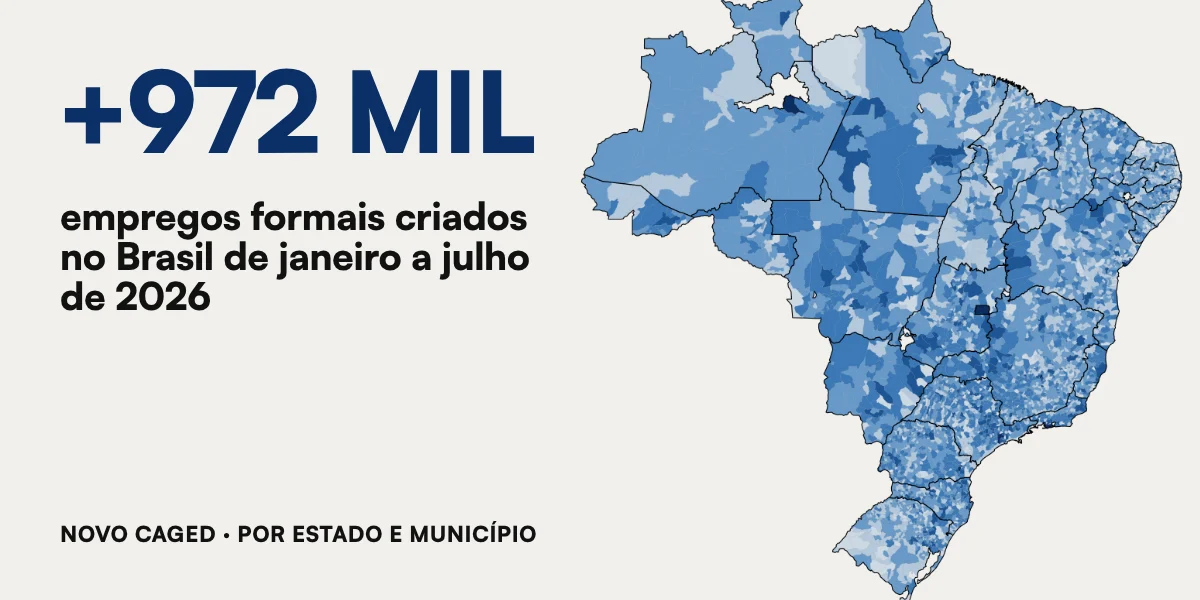
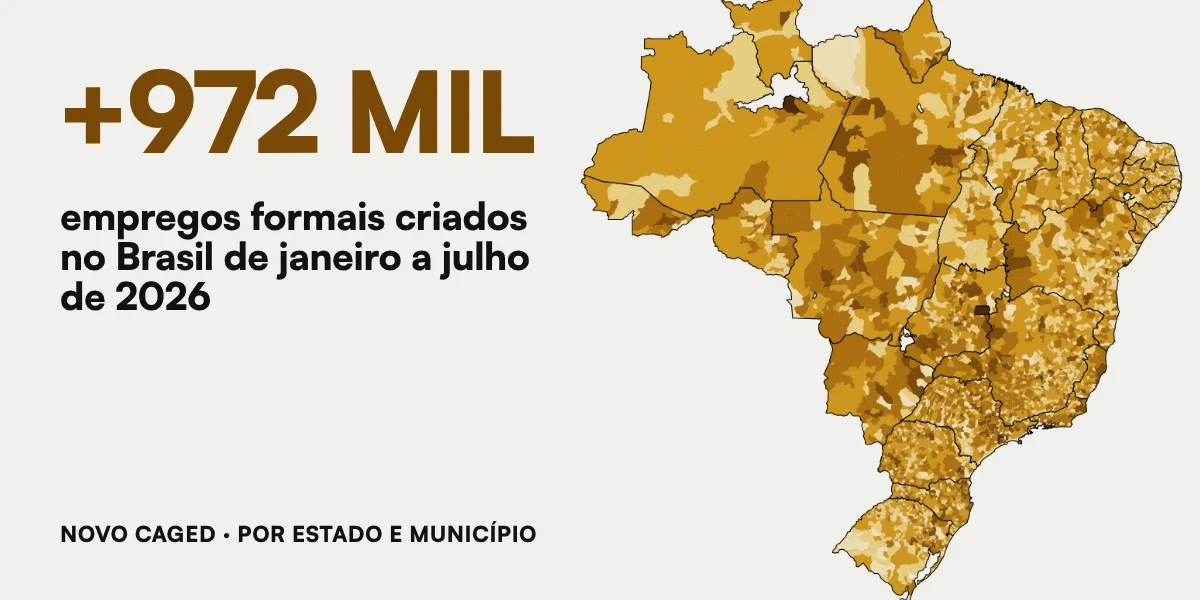
Mapa do emprego: escala em âmbar, do branco ao marrom

Changed region(s): [[0.4625, 0.0, 0.9867, 1.0], [0.0308, 0.09, 0.4625, 0.27]]

diff --git a/src/empregos.css b/src/empregos.css
@@ -1,5 +1,5 @@
 /* Mapa do emprego (empregos.html) */
-.empregos-pg { --pos: #0b2f66; --neg: #55657c; --papel: #f1f0ec; --linha: #c9c6bd; --onda-cor: 0,0,0; --onda-fundo: var(--papel); background: var(--papel); color: var(--tinta); min-height: 100vh; }
+.empregos-pg { --pos: #7a4a08; --neg: #5c5c57; --papel: #f1f0ec; --linha: #c9c6bd; --onda-cor: 0,0,0; --onda-fundo: var(--papel); background: var(--papel); color: var(--tinta); min-height: 100vh; }
 .empregos-pg [hidden] { display: none !important; }
 .emp { max-width: 1280px; margin: 0 auto; padding: clamp(1rem, 2.4vw, 2rem) var(--margem) 2.5rem; font-family: "Switzer", system-ui, sans-serif; }
 .emp-cabeca h1 { margin: 0; font-family: "Satoshi", sans-serif; font-weight: 900; font-size: clamp(1.9rem, 5vw, 3.4rem); line-height: 1; letter-spacing: -0.02em; }
@@ -34,7 +34,7 @@
 #palco { position: relative; background: #fff; border: 2px solid var(--tinta); border-radius: var(--raio); overflow: hidden; }
 #mapa { display: block; width: 100%; height: auto; max-height: 78vh; touch-action: manipulation; }
 #mapa path { stroke-linejoin: round; vector-effect: non-scaling-stroke; }
-#g-mun path { stroke: #8fa6bf; stroke-width: 0.35; cursor: pointer; }
+#g-mun path { stroke: #b39a63; stroke-width: 0.35; cursor: pointer; }
 #g-uf path { stroke: var(--tinta); stroke-width: 0.9; cursor: pointer; }
 #mapa[data-modo="mun"] #g-uf path, #mapa[data-modo="foco"] #g-uf path { pointer-events: none; stroke-width: 1.1; }
 #mapa[data-modo="mun"] #g-mun path { stroke-width: 0.15; }
@@ -44,7 +44,7 @@
 #carregando { position: absolute; inset: 0; margin: 0; display: grid; place-content: center; font-weight: 600; background: #fff; }
 #dica { position: absolute; z-index: 3; pointer-events: none; display: grid; gap: 0.1rem; padding: 0.45rem 0.6rem; background: var(--tinta); color: #fff; border-radius: var(--raio-p); font-size: 0.9rem; white-space: nowrap; }
 #dica span { font-weight: 600; }
-#dica span[data-sinal="pos"] { color: #9cc0e6; }
+#dica span[data-sinal="pos"] { color: #f5d98a; }
 #dica span[data-sinal="neg"] { color: #fff; }
 #voltar { position: absolute; left: 0.7rem; top: 0.7rem; }
 #voltar, .emp .botao { min-height: 44px; padding: 0.5rem 0.9rem; font: inherit; font-weight: 600; font-size: 0.95rem; color: #fff; background: var(--tinta); border: 2px solid var(--tinta); border-radius: var(--raio-p); cursor: pointer; }
@@ -76,11 +76,11 @@
 .rank-bloco h2 { margin: 0.9rem 0 0.5rem; font-size: 1.02rem; font-weight: 600; }
 #rank { list-style: none; margin: 0; padding: 0; }
 #rank button { display: grid; grid-template-columns: 1.5rem minmax(0, 1fr) auto; column-gap: 0.5rem; row-gap: 0.25rem; align-items: baseline; width: 100%; min-height: 48px; padding: 0.45rem 0.3rem; text-align: left; font: inherit; color: var(--tinta); background: none; border: 0; border-top: 1px solid var(--linha); cursor: pointer; }
-#rank button:hover, #rank button[aria-current] { background: #e3edf9; }
+#rank button:hover, #rank button[aria-current] { background: #fbf1d2; }
 #rank .pos { font-weight: 600; font-size: 0.85rem; opacity: 0.7; }
 #rank .nome { font-weight: 600; overflow-wrap: anywhere; }
 #rank .valor { font-weight: 600; font-variant-numeric: tabular-nums; white-space: nowrap; }
-#rank .barra { grid-column: 2 / -1; height: 6px; background: #e6ecf3; }
+#rank .barra { grid-column: 2 / -1; height: 6px; background: #efece3; }
 #rank .barra i { display: block; height: 100%; background: var(--pos); }
 #rank .barra i[data-sinal="neg"] { background: #fff; border: 1.5px solid var(--pos); box-sizing: border-box; }
 .emp-fonte { margin: 1.6rem 0 0; max-width: 90ch; font-size: 0.88rem; line-height: 1.5; }

diff --git a/ferramentas/empregos/mapa-fonte.js b/ferramentas/empregos/mapa-fonte.js
@@ -11,8 +11,8 @@ const UFS = { 11: ["RO", "Rondônia"], 12: ["AC", "Acre"], 13: ["AM", "Amazonas"
   50: ["MS", "Mato Grosso do Sul"], 51: ["MT", "Mato Grosso"], 52: ["GO", "Goiás"], 53: ["DF", "Distrito Federal"] };
 const MESES = ["janeiro", "fevereiro", "março", "abril", "maio", "junho", "julho", "agosto", "setembro", "outubro", "novembro", "dezembro"];
 const MES3 = MESES.map((m) => m.slice(0, 3));
-// uma escala só, do branco (mais vagas fechadas) ao azul-escuro (mais vagas criadas)
-const ESCALA = ["#ffffff", "#edf3fa", "#d9e6f5", "#c0d6ee", "#9cc0e6", "#6ea3d8", "#3f80c4", "#1f5aa0", "#0b2f66"];
+// uma escala só, do branco (mais vagas fechadas) ao marrom (mais vagas criadas), passando pelo amarelo do site
+const ESCALA = ["#ffffff", "#fdf6e3", "#faeabf", "#f5d98a", "#eec24a", "#d99e1e", "#b3760f", "#84500b", "#4f2d06"];
 const COR_SEM = "#d5d5d5";
 
 const $ = (s) => document.querySelector(s);
